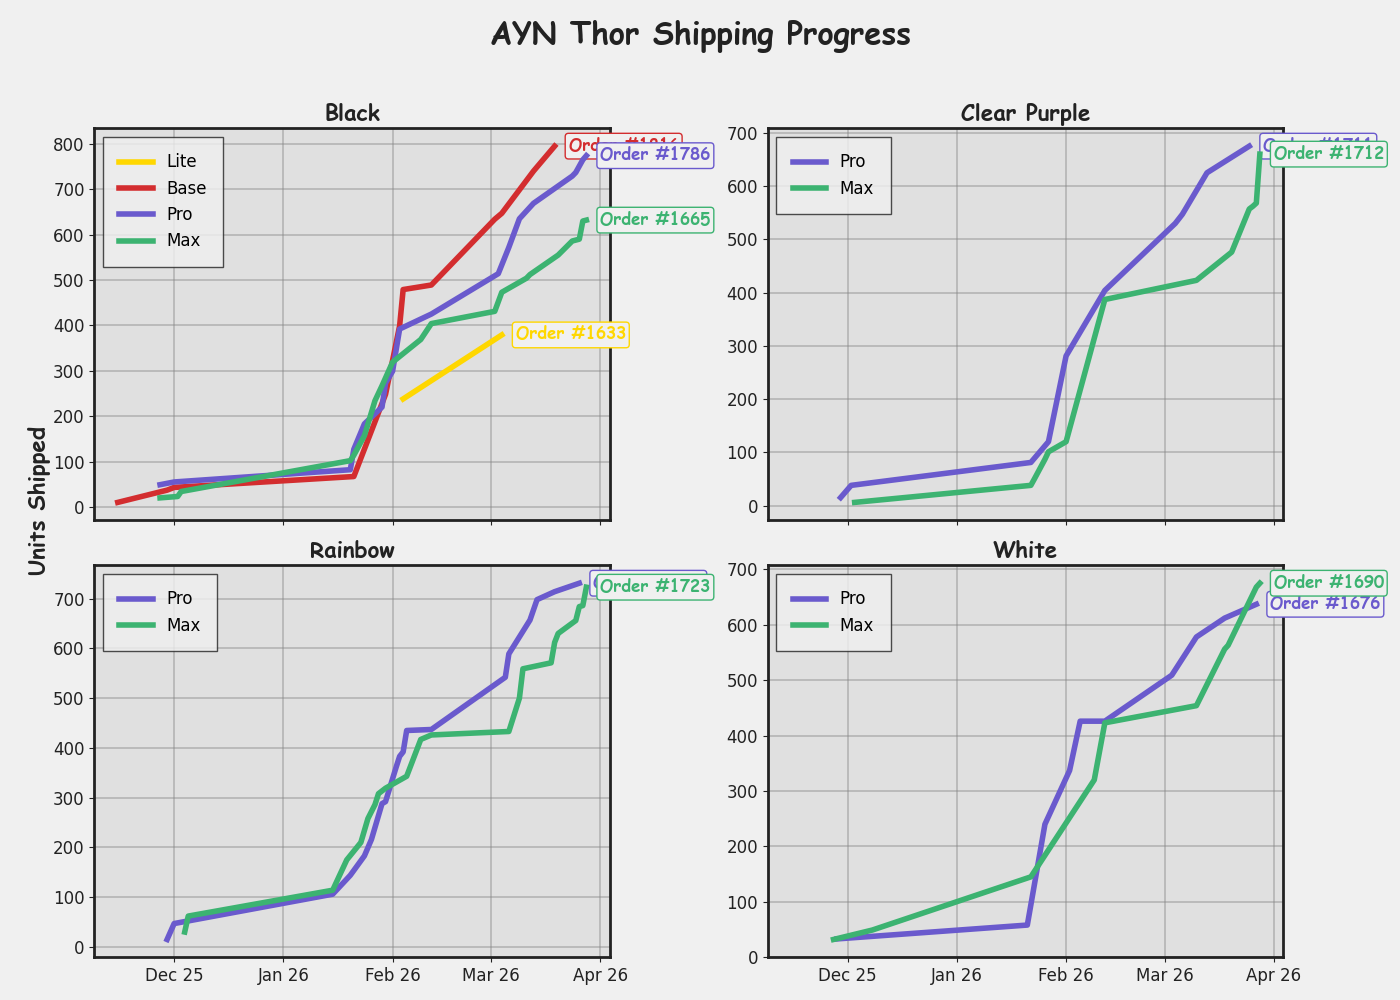
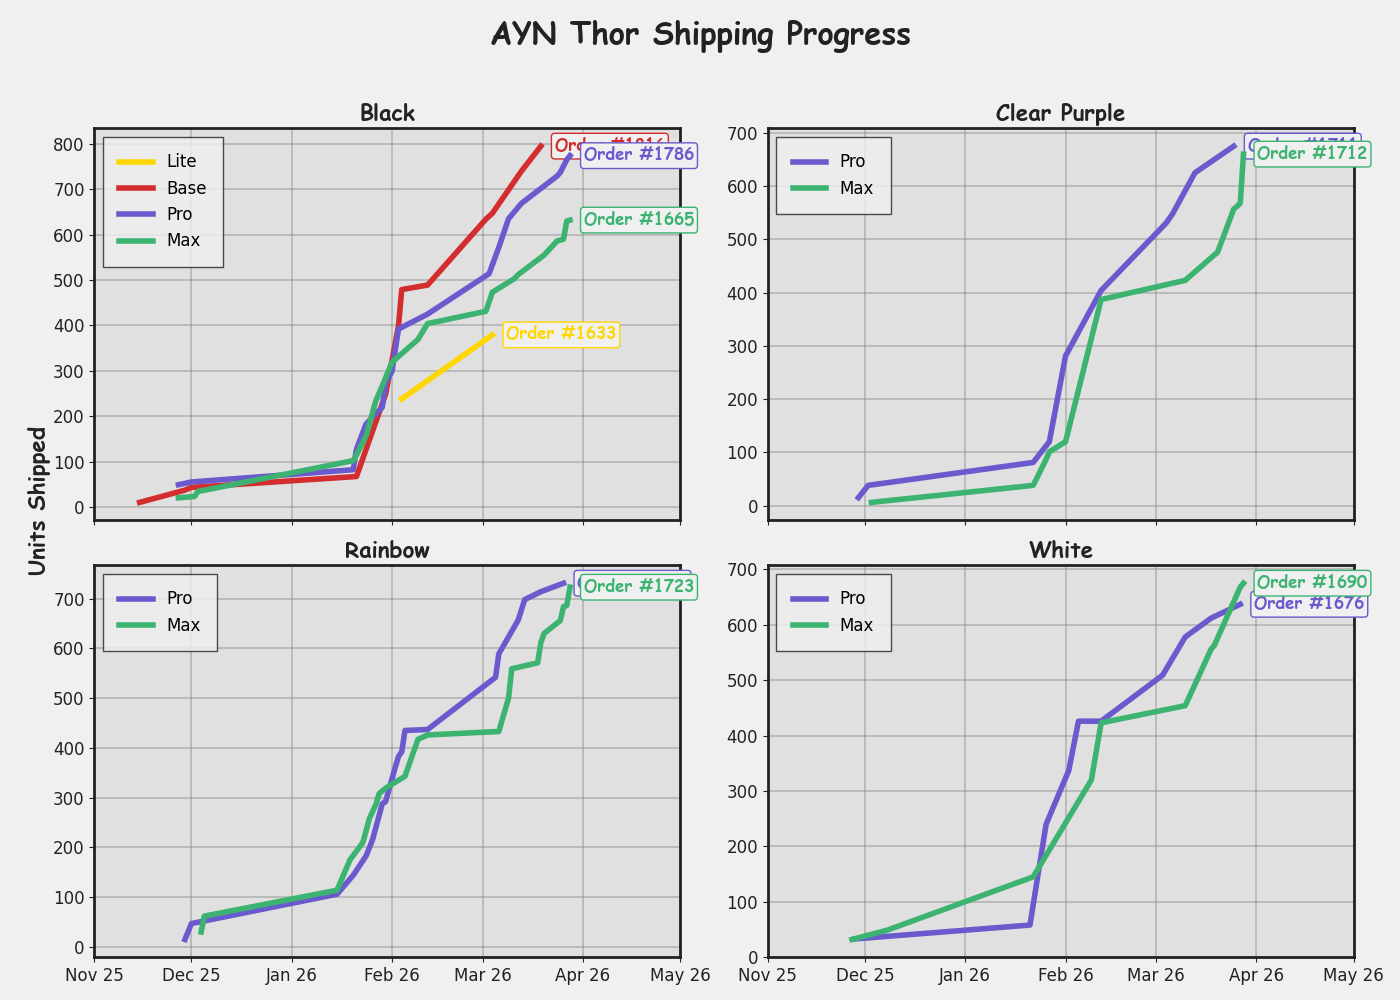
working trendlines

diff --git a/analysis.py b/analysis.py
@@ -2,6 +2,8 @@ import sqlite3
 import pandas as pd
 import matplotlib.pyplot as plt
 import matplotlib.dates as mdates
+import joblib
+from datetime import datetime, timedelta
 
 def format_ax(ax, title=None, ylabel=None):
     ax.xaxis.set_major_locator(mdates.MonthLocator())
@@ -26,6 +28,47 @@ MODEL_COLORS = {
     "Pro": "#6A5ACD",
     "Max": "#3CB371"
 }
+
+MODEL_PATH = "assets/shipping_model.joblib"
+
+def load_trained_models():
+    artifact = joblib.load(MODEL_PATH)
+    models = artifact["models"]
+    meta = artifact["training_meta"]
+    return models, meta
+
+def normalize(value: str) -> str:
+    return str(value).replace(" ", "").replace("-", "").replace("_", "").lower()
+
+def get_model_prediction_line(models, meta, make, model, color, min_date, max_date):
+    lookup_key = (
+        normalize(make),
+        normalize(model),
+        normalize(color)
+    )
+    normalized_to_actual = {
+        (
+            normalize(k[0]),
+            normalize(k[1]),
+            normalize(k[2])
+        ): k for k in models.keys()
+    }
+    if lookup_key not in normalized_to_actual:
+        print(f"  Model key not found: {lookup_key}")
+        print(f"  Available normalized keys (first 5): {list(normalized_to_actual.keys())[:5]}")
+        return None, None
+    actual_key = normalized_to_actual[lookup_key]
+    reg = models[actual_key]
+    # Extend 14 days past the last data point (max_date)
+    future_limit = pd.Timestamp(max_date) + pd.Timedelta(days=14)
+    date_range = pd.date_range(min_date, future_limit, freq="7D")
+    ordinals = date_range.map(pd.Timestamp.toordinal)
+    coef = reg.coef_[0]
+    intercept = reg.intercept_
+    if coef == 0:
+        return None, None
+    order_numbers = (ordinals - intercept) / coef
+    return date_range, order_numbers
 
 def get_df():
     conn = sqlite3.connect(DB_PATH)
@@ -56,6 +99,19 @@ def get_df():
     df["cumulative"] = df.groupby(["make", "model", "color"])["calc_units"].cumsum()
     return df
 
+def get_month_range(dates, extend_days=0):
+    min_date = dates.min()
+    max_date = dates.max()
+    start = pd.Timestamp(year=min_date.year, month=min_date.month, day=1)
+    # Extend max_date by extend_days if requested
+    if extend_days > 0:
+        max_date = max_date + pd.Timedelta(days=extend_days)
+    if max_date.month == 12:
+        end = pd.Timestamp(year=max_date.year + 1, month=1, day=1)
+    else:
+        end = pd.Timestamp(year=max_date.year, month=max_date.month + 1, day=1)
+    return start, end
+
 def plot_shipping_progress(output_path=None):
     df = get_df()
     colors = df["color"].unique()
@@ -68,6 +124,8 @@ def plot_shipping_progress(output_path=None):
         axes = [axes]
     plt.style.use('default')
     fig.patch.set_facecolor('#F0F0F0')
+    # Extend x-axis 21 days past last data
+    start, end = get_month_range(df["date"], extend_days=21)
     for ax, color in zip(axes, colors):
         color_df = df[df["color"] == color]
         plotted_labels = []
@@ -104,6 +162,7 @@ def plot_shipping_progress(output_path=None):
         ordered_labels = [m for m in MODEL_ORDER if m in labels]
         ax.legend(ordered_handles, ordered_labels, fontsize=12, frameon=True, fancybox=False, edgecolor='#222', facecolor='#F0F0F0', borderpad=1, loc='upper left')
         format_ax(ax, title=f"{color.title()}")
+        ax.set_xlim(start, end)
     fig.suptitle("AYN Thor Shipping Progress", fontsize=22, fontweight='bold', color='#222', fontname='Comic Sans MS')
     fig.supylabel("Units Shipped", fontsize=16, fontweight='bold', color='#222', fontname='Comic Sans MS')
     plt.tight_layout(rect=(0, 0, 1, 0.96))
@@ -128,14 +187,21 @@ def plot_orders(model, color, output_path=None):
     plt.show()
 
 def plot_black_models(output_path=None):
+    print("Plotting black models...")
     df = get_df()
     black_df = df[df["color"] == "black"]
     if black_df.empty:
         print("No data for black models.")
         return
+    models, meta = load_trained_models()
     plt.style.use('default')
     fig, axes = plt.subplots(2, 2, figsize=(14, 10), sharex=True)
     axes = axes.flatten()
+    # Extend x-axis 21 days past last data
+    if not black_df.empty:
+        start, end = get_month_range(black_df["date"], extend_days=21)
+    else:
+        start, end = None, None
     for idx, model in enumerate(MODEL_ORDER):
         ax = axes[idx]
         model_df = black_df[black_df["model"] == model]
@@ -144,26 +210,61 @@ def plot_black_models(output_path=None):
             continue
         ax.plot(
             model_df["date"],
-            model_df["end"],  # Use order number as y-axis
+            model_df["end"],
             color=MODEL_COLORS[model],
             linewidth=4,
             zorder=3,
-            label=model
+            label="Shipped"
         )
+        make = model_df["make"].iloc[0] if not model_df.empty else "Thor"
+        min_date = pd.Timestamp("2026-01-01")
+        # Use the graph's x-axis end for trendline extension
+        trendline_max_date = end
+        print(f"Adding trendline for Black {model}: make={make}, min_date={min_date}, max_date={trendline_max_date}")
+        dates, preds = get_model_prediction_line(
+            models, meta, make, model, "black", min_date, trendline_max_date
+        )
+        if dates is not None and preds is not None:
+            print(f"  Trendline points: {len(dates)}")
+            ax.plot(
+                dates,
+                preds,
+                color=MODEL_COLORS[model],
+                linestyle=":",
+                linewidth=2,
+                label="Projected",
+                zorder=2,
+                alpha=0.8,
+            )
+        else:
+            print(f"  No model found for Black {model}")
         format_ax(ax, title=f"Black {model}", ylabel="Order Number")
-        ax.legend([model], fontsize=12, frameon=True, fancybox=False, edgecolor='#222', facecolor='#F0F0F0', borderpad=1, loc='upper left')
+        handles, labels = ax.get_legend_handles_labels()
+        unique = dict(zip(labels, handles))
+        ax.legend(unique.values(), unique.keys(), fontsize=12, frameon=True, fancybox=False, edgecolor='#222', facecolor='#F0F0F0', borderpad=1, loc='upper left')
+        if start is not None and end is not None:
+            ax.set_xlim(start, end)
     fig.suptitle("AYN Thor Black Models Order Progress", fontsize=22, fontweight='bold', color='#222', fontname='Comic Sans MS')
     plt.tight_layout(rect=(0, 0, 1, 0.96))
     if output_path:
         plt.savefig(output_path)
+        print(f"Saved black models graph to {output_path}")
 
 def plot_color_models(output_path=None):
+    print("Plotting special color models...")
     df = get_df()
     special_colors = ["white", "clear purple", "rainbow"]
     special_models = ["Pro", "Max"]
     color_titles = {"white": "White", "clear purple": "Clear Purple", "rainbow": "Rainbow"}
+    models, meta = load_trained_models()
     plt.style.use('default')
     fig, axes = plt.subplots(3, 2, figsize=(16, 14), sharex=True)
+    filtered_df = df[df["color"].isin(special_colors)]
+    # Extend x-axis 21 days past last data
+    if not filtered_df.empty:
+        start, end = get_month_range(filtered_df["date"], extend_days=21)
+    else:
+        start, end = None, None
     for row_idx, color in enumerate(special_colors):
         for col_idx, model in enumerate(special_models):
             ax = axes[row_idx, col_idx]
@@ -177,20 +278,48 @@ def plot_color_models(output_path=None):
                 color=MODEL_COLORS[model],
                 linewidth=4,
                 zorder=3,
-                label=model
+                label="Shipped"
             )
+            make = model_df["make"].iloc[0] if not model_df.empty else "Thor"
+            min_date = pd.Timestamp("2026-01-01")
+            # Use the graph's x-axis end for trendline extension
+            trendline_max_date = end
+            print(f"Adding trendline for {color_titles[color]} {model}: make={make}, min_date={min_date}, max_date={trendline_max_date}")
+            dates, preds = get_model_prediction_line(
+                models, meta, make, model, color, min_date, trendline_max_date
+            )
+            if dates is not None and preds is not None:
+                print(f"  Trendline points: {len(dates)}")
+                ax.plot(
+                    dates,
+                    preds,
+                    color=MODEL_COLORS[model],
+                    linestyle=":",
+                    linewidth=2,
+                    label="Projected",
+                    zorder=2,
+                    alpha=0.8,
+                )
+            else:
+                print(f"  No model found for {color_titles[color]} {model}")
             format_ax(ax, title=f"{color_titles[color]} {model}", ylabel="Order Number")
-            ax.legend([model], fontsize=12, frameon=True, fancybox=False, edgecolor='#222', facecolor='#F0F0F0', borderpad=1, loc='upper left')
+            handles, labels = ax.get_legend_handles_labels()
+            unique = dict(zip(labels, handles))
+            ax.legend(unique.values(), unique.keys(), fontsize=12, frameon=True, fancybox=False, edgecolor='#222', facecolor='#F0F0F0', borderpad=1, loc='upper left')
+            if start is not None and end is not None:
+                ax.set_xlim(start, end)
     fig.suptitle("AYN Thor Special Colors Order Progress", fontsize=22, fontweight='bold', color='#222', fontname='Comic Sans MS')
     plt.tight_layout(rect=(0, 0, 1, 0.96))
     if output_path:
         plt.savefig(output_path)
+        print(f"Saved color models graph to {output_path}")
 
 def make_graphs():
+    print("Generating all graphs...")
     plot_shipping_progress(output_path="assets/shipping_progress.png")
     plot_black_models(output_path="assets/black_models_orders.png")
     plot_color_models(output_path="assets/color_models_orders.png")
-
+    print("All graphs generated.")
 
 if __name__ == "__main__":
     make_graphs()
